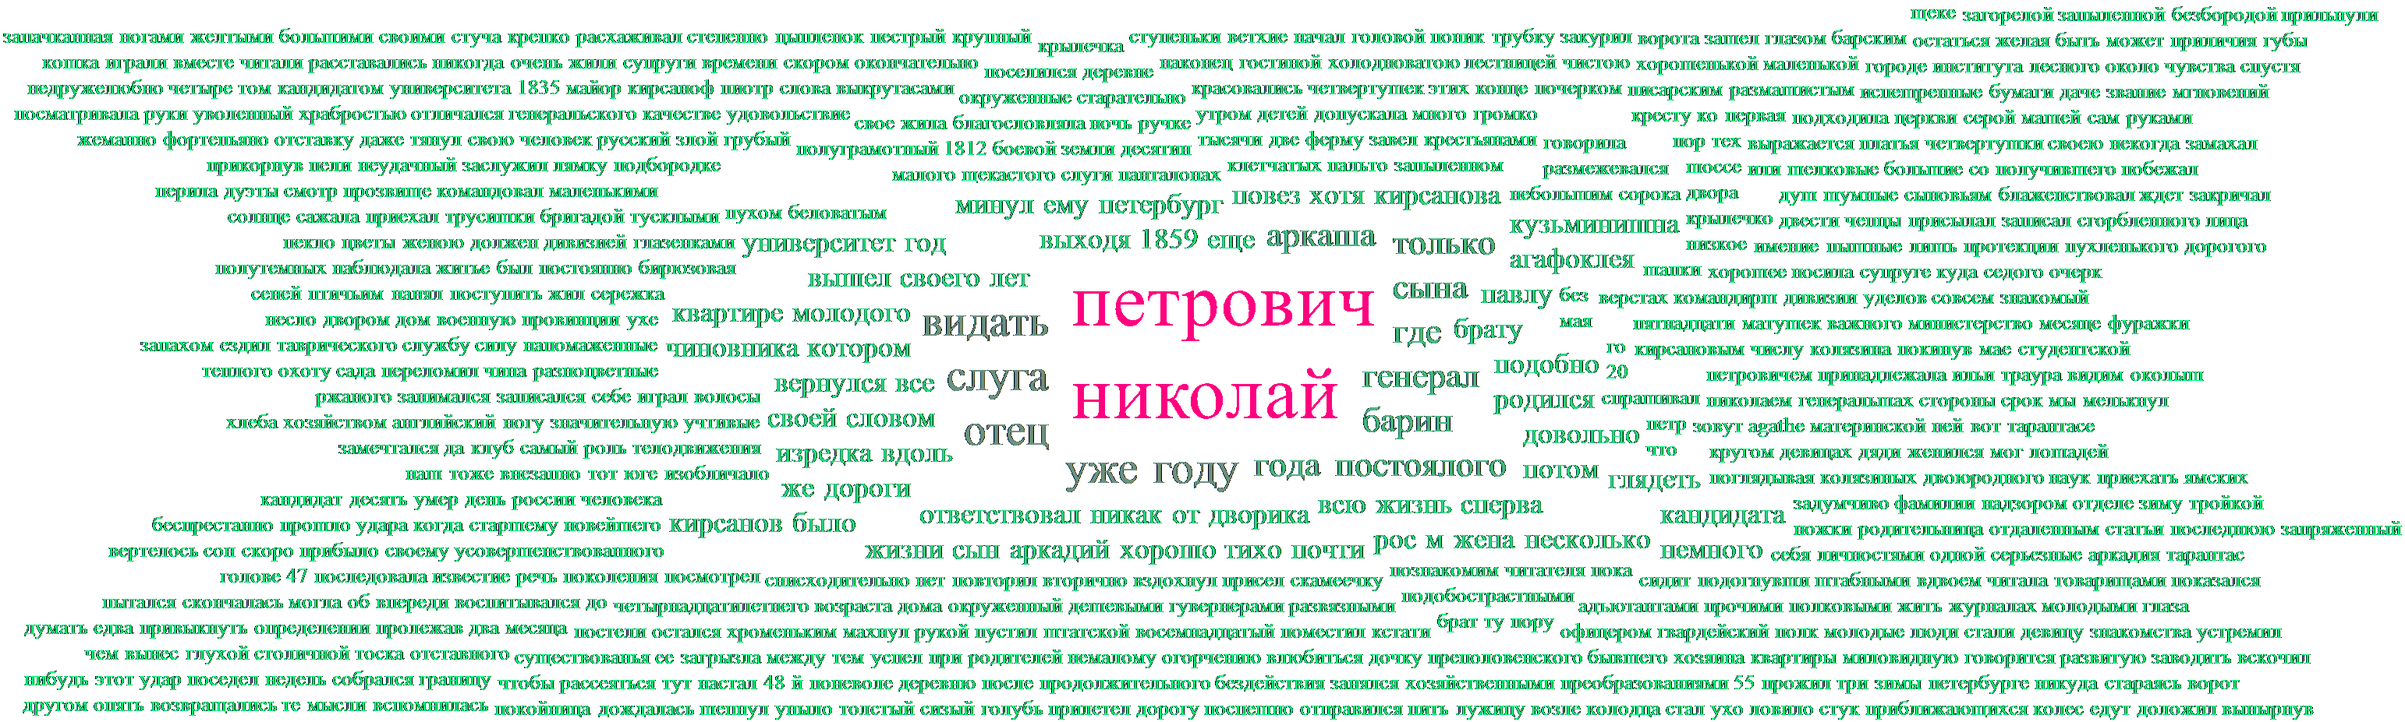
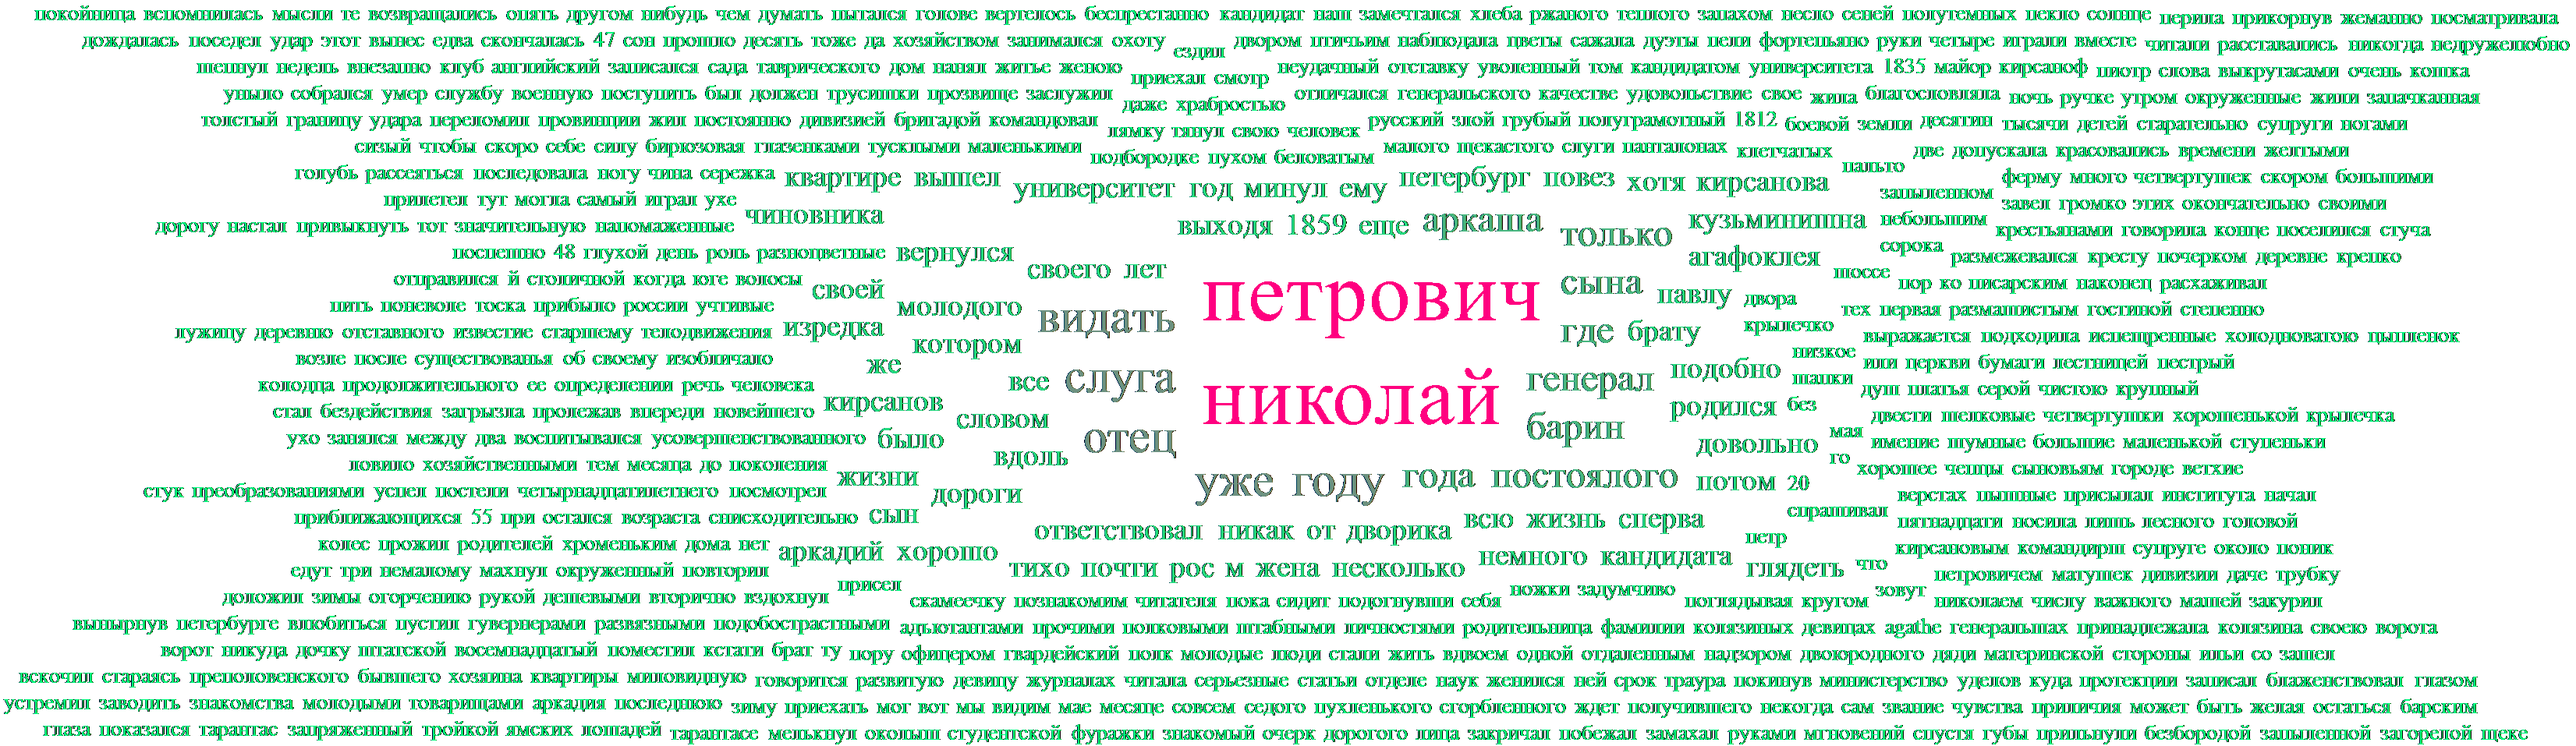
Изменил метод маштабирования LerpMax

Changed region(s): [[0.0, 0.0, 1.0, 0.9968]]

diff --git a/TagsCloudContainerConsole/Program.cs b/TagsCloudContainerConsole/Program.cs
@@ -73,10 +73,14 @@ namespace TagsCloudContainerConsole
                 var scalingMethods =
                     new Dictionary<ScalingMethods, Func<WordRendererToImage.SizingInfo, LayoutedWord, float>>
                     {
-                        [ScalingMethods.Linear] = (info, word) => word.Count,
-                        [ScalingMethods.Sqrt] = (info, word) => (float) Math.Sqrt(word.Count),
-                        [ScalingMethods.LerpTotal] = (info, word) => 1f + 5 * word.Count / (float) info.TotalWordsCount,
-                        [ScalingMethods.LerpMax] = (info, word) => 1f + 5 * word.Count / (float) info.MaxWordCount
+                        [ScalingMethods.Linear] =
+                            (info, word) => word.Count,
+                        [ScalingMethods.Sqrt] =
+                            (info, word) => (float) Math.Sqrt(word.Count),
+                        [ScalingMethods.LerpTotal] =
+                            (info, word) => 1f + 5 * word.Count / (float) info.TotalWordsCount,
+                        [ScalingMethods.LerpMax] =
+                            (info, word) => 1f + 5 * word.Count / (float) (info.MaxWordCount - info.MinWordCount)
                     };
 
                 var scaling = scalingMethods[options.Scaling];
